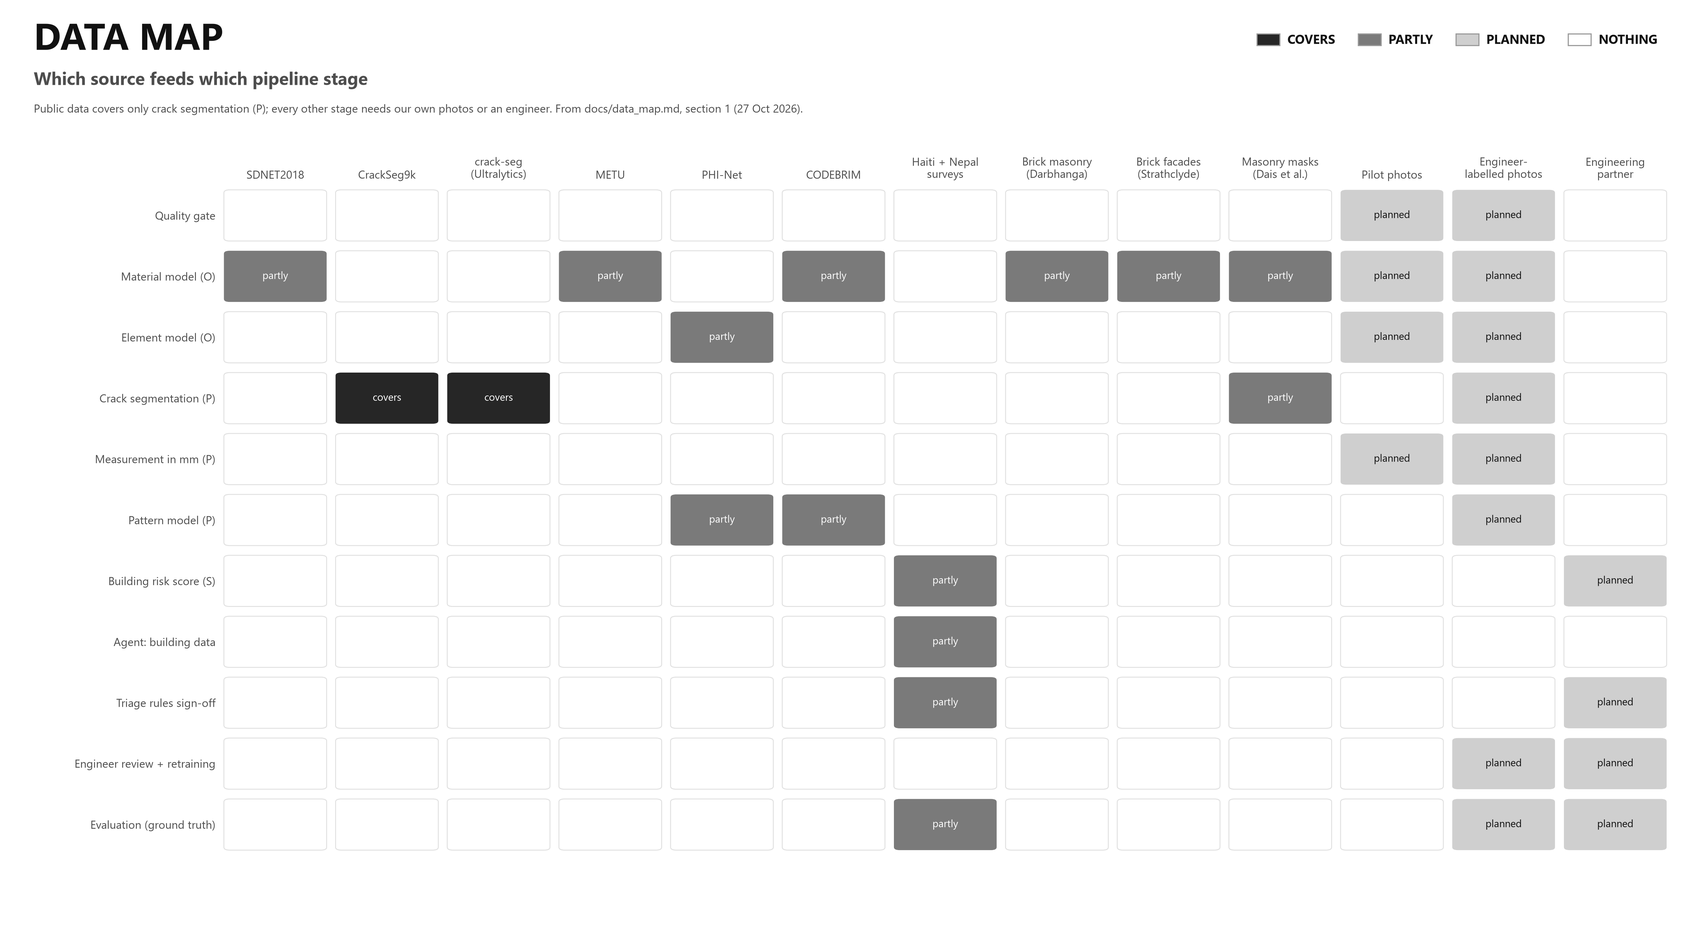
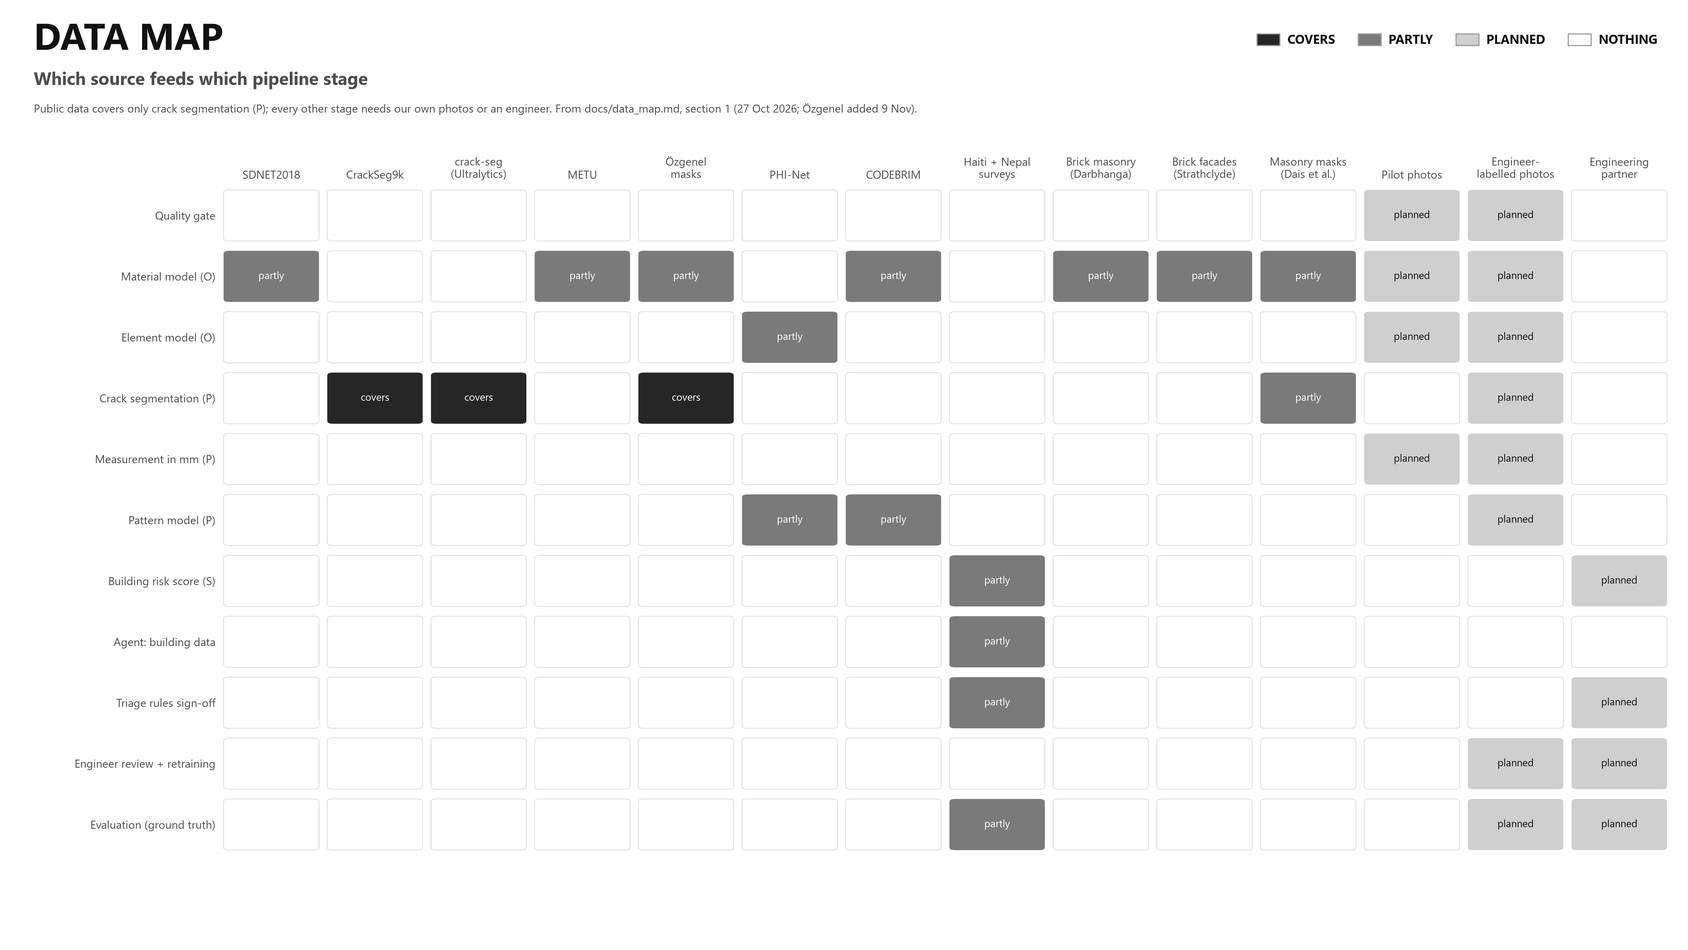
Crack model v4 in use (D48): building-concrete crack masks added, release model-v4
v4 adds 4,236 tiles of the Özgenel building-concrete photos [49] to v3's training (12,477 photos).
On building concrete it misses 17 cracks against 30 and raises 5 false alarms against 21 (pixel F1
0.85 against 0.78); on the old public close-ups it misses 18 against 12. Judged on all 1,494 test
photos, missed cracks first (35 against 42, false alarms 11 against 27). Weights on release
model-v4; README, models/README, experiment notes, specs, the app's model line, the weekly to-do and
figures 05, 06 and 10 updated.

diff --git a/src/app/second_look.py b/src/app/second_look.py
@@ -36,8 +36,9 @@ ELEMENT_KEYS = {"unknown": None, **{name: key for key, name in ELEMENTS.items()}
 WALL_GALLERY_COLUMNS = 6  # photos per row in an opened collection
 WALL_QUOTE = ("A repair that conceals a crack without addressing its root cause is not a solution, It is a "
               "temporary disguise for a potentially continuing defect.")
-MODEL_LINE = ("Model: U-Net crack segmentation, ResNet-34 encoder (crack model v3), trained on 9,441 public crack photos "
-              "and brick walls without cracks, plus written rules for the statement, plus bank-card measurement in mm")
+MODEL_LINE = ("Model: U-Net crack segmentation, ResNet-34 encoder (crack model v4), trained on 12,477 photos: public crack "
+              "close-ups, building concrete with crack masks and brick walls without cracks, plus written rules for the "
+              "statement, plus bank-card measurement in mm")  # update with models/unet_crack.pt (D48)
 
 STYLE = """<style>
 """ + background_css() + LOGO_CSS + """

diff --git a/src/viz/figures.py b/src/viz/figures.py
@@ -853,7 +853,7 @@ DATASETS = [
     ("METU", 40_000, "40,000  ·  CC BY 4.0", True, True, False, "crack / no crack; material: concrete"),
     ("PHI-Net", 36_413, "36,413  ·  CC BY-NC-SA 4.0", True, True, False, "element, pattern, scene"),
     ("CrackSeg9k", 9_255, "9,255  ·  CC0", True, True, False, "crack pixels (U-Net)"),
-    ("Özgenel building concrete", 458, "458 photos with crack masks  ·  CC BY 4.0", True, True, False,
+    ("Özgenel building concrete", 458, "458  ·  CC BY 4.0", True, True, False,
      "crack pixels (U-Net v4)"),
     ("crack-seg (Ultralytics)", 4_029, "4,029  ·  Public Domain", True, True, False, "crack pixels (U-Net)"),
     ("Haiti 2010 survey", 6_526, "6,526 photos  ·  licence not stated", False, True, False,

diff --git a/README.md b/README.md
@@ -37,7 +37,7 @@ Raw data is not committed; `data/` stays empty in the repository.
 The risk matrix and decision rules are implemented in `src/triage/` with tests, and so is the dispatch rule that decides when a field worker visits after a resident's report (`spec/features/dispatch.md`, D27). Thresholds are illustrative until calibrated with a structural engineer.
 The confusion tables (true and false positives and negatives, with missed Category 3 as the key error) are defined in `spec/features/evaluation.md` and coded in `src/triage/evaluate.py`.
 The quality gate (`src/quality/`) ran as a first test on real images from five public datasets. It found and fixed a resolution bug in the blur check, and showed that the blur check confuses smooth plaster and concrete with blur (decision D12) (`docs/experiments/`). Since 30 Oct a photo counts as blurred only when two blur measures agree, which stopped most sharp crack close-ups being sent to retake (D33; thresholds still to calibrate).
-**Crack model, in use (v3, 30 Oct):** a U-Net with a ResNet-34 encoder (pre-trained on ImageNet) marks the crack pixels in a photo. It was trained for 25 rounds on 8,241 photos (8,082 public crack close-ups from CrackSeg9k [25] and crack-seg [33], plus 159 brick walls without cracks from Darbhanga [30]), on a laptop GPU. A written rule then says "Crack found", "No crack found" or "Expert needed" (`src/segmentation/decide.py`). Details: `docs/experiments/2026-10-29_unet_first_training.md`, decisions D31 and D32.
+**Crack model, in use (v4, 9 Nov):** a U-Net with a ResNet-34 encoder (pre-trained on ImageNet) marks the crack pixels in a photo. It was trained for 25 rounds on 12,477 photos (8,082 public crack close-ups from CrackSeg9k [25] and crack-seg [33], 4,236 tiles of 353 photos of concrete on buildings with crack masks from the Özgenel dataset [49], the data of the reference thesis, and 159 brick walls without cracks from Darbhanga [30]), on a laptop GPU. A written rule then says "Crack found", "No crack found" or "Expert needed" (`src/segmentation/decide.py`). Details: `docs/experiments/2026-10-29_unet_first_training.md`, decisions D31, D32 and D48.
 **App, working (class demo):** a phone page where anyone sends a crack photo and gets the answer with the crack marked in red, and a live wall for the projector that collects the shared results (`src/app/`, `spec/features/class_demo.md`). See "Run the app" below.
 **Width in mm, in the app (Luis, 4 Nov, D41, D42, D46):** lay a bank card (85.60 x 53.98 mm) flat on the wall next to the crack. The app finds the card, checks the camera tilt (straight up to 10°, retake above 20°) and gives the width at the widest point and the median (± uncertainty), the length, the pixels across the crack and the crack's shape, with a white ring at the widest point (`src/measure/`, `spec/features/measurement.md`, `spec/features/app_measure.md`). Each photo on the live wall opens its own page with these numbers. Without a card the answer is as before. Tested on synthetic photos and a few field photos, not calibrated yet. The measurement alone: `streamlit run src/measure/app.py` or `python src/measure/measure_crack.py --demo`.
 **Not trained yet:** the material model (concrete or not), the element model (column, beam, slab, wall), the crack-pattern model and a "close-up of a surface?" check. Without the pattern and the element, the risk categories are not in the app.
@@ -45,7 +45,9 @@ A first draft of written rules suggests the crack pattern from the crack's direc
 Decisions are logged in `spec/decisions.md`. The plan to the final presentation (17 Dec) is in `spec/constitution/roadmap.md`; this week's tasks in `docs/weekly_todo.md`.
 
 ## Results
-**Crack model v3, on 1,203 public test photos it never saw in training:** 538 of 550 cracks found (12 missed), 7 false alarms on 653 photos without a crack (none on brick), pixel F1 0.63 (`docs/experiments/2026-10-29_unet_first_training.md`).
+**Crack model v4, on photos it never saw in training** (`docs/experiments/2026-10-29_unet_first_training.md`, D48):
+- Real building concrete (588 tiles, Özgenel [49]): 261 of 281 cracks found (17 missed, 3 sent to an expert), 5 false alarms on 307 tiles without a crack, pixel F1 0.85. v3 missed 30 and raised 21 false alarms there.
+- Public close-ups, mostly pavement (906 photos): 530 of 550 cracks found (18 missed, 2 sent to an expert), 6 false alarms on 356 photos without a crack (none on brick), pixel F1 0.64. v3 missed 12 there: this is v4's known weakness.
 **Known failure:** it only knows close-ups. On 30 photos of whole damaged buildings (Haiti 2010, local only) it still said "Crack found" 28 times: it reads window frames, wires and edges as cracks. Next: a "close-up of a surface?" check before the model.
 These are scores on public close-ups, not on our own photos, and not yet against the non-AI baseline. Success means beating the baseline (an engineer's visual check) on held-out, engineer-labelled photos, while missing almost no Category 3 cases (a target, planned for 3 Dec).
 We stop or redesign if the tool misses Category 3 cases that engineers would flag.
@@ -79,7 +81,7 @@ This repository was set up with help from Claude (Anthropic). Review everything 
 ## Run the app
 1. Python 3.10 or newer. With an NVIDIA GPU, install torch first with the CUDA build named in `requirements.txt`; without one the app runs on the CPU, slower (a few seconds per photo).
 2. `pip install -r requirements.txt`
-3. Download the model file [unet_crack.pt](https://github.com/iaac-maai/operable_futures_research_studio_2026_Team_Jerome_Luis/releases/download/model-v3/unet_crack.pt) (v3, about 98 MB, release `model-v3`) and put it in `models/`.
+3. Download the model file [unet_crack.pt](https://github.com/iaac-maai/operable_futures_research_studio_2026_Team_Jerome_Luis/releases/download/model-v4/unet_crack.pt) (v4, about 98 MB, release `model-v4`) and put it in `models/`.
 4. On this laptop only: `py -m streamlit run src/app/second_look.py`, then open `http://localhost:8501` (phone page) and `http://localhost:8501/?wall` (live wall).
 5. With a public link for phones (class demo): `py src/app/launch.py`. It opens the team's fixed link https://cranium-bladder-tapioca.ngrok-free.dev through ngrok (install it, then `ngrok config add-authtoken <your token>` once; never commit the token), so the QR is always the same (`docs/presentation/midterm/assets/qr_fixed.png`). Only one laptop can serve that link at a time. Without ngrok it falls back to a random Cloudflare link (`winget install --id Cloudflare.cloudflared`). It prints the phone link, the wall link for a teammate and the QR page (`http://localhost:8501/?qr`). The link only answers while the app runs; the free ngrok plan shows a one-time "You are about to visit" page first.
 6. To measure a crack: lay a bank card (or any card that size) flat on the wall next to the crack, all four corners visible, number covered; hold the phone parallel to the wall. The phone page then shows the width, length and camera tilt; each photo on the live wall opens its own page with the numbers. After a code update, stop the launcher (Ctrl+C) and start it again: a running app keeps the old code in memory.

diff --git a/spec/features/class_demo.md b/spec/features/class_demo.md
@@ -24,7 +24,7 @@ Title "Second Look" as the word mark (below), then the team's quote in bold capi
 ## Live wall
 - Word mark (4 Nov, from the deck cover): in both titles the two O's of "LOOK" are scan frames. On load the second O slides out of the first and a red crack draws through it; it plays once (CSS only, `src/app/logo.py`). Screen readers get "Second Look".
 - Top, very large: "SECOND LOOK v1.0" (the version in lower case; the word mark), left-aligned with the quote under it (the two form one block, centred on the screen). Right of the title, under "v1.0", "READING CRACKS..." types itself letter by letter, holds, disappears and starts again (4 s loop, CSS only).
-- Screen bottom: the model in use (U-Net, ResNet-34 encoder, crack model v3; `MODEL_LINE` in `second_look.py`, to update with the model) stands still as one line of grey capitals (white at the main crack's opacity, so the same grey as the background crack), from the left edge of the screen to the right edge (letter size from the letter count, words justified; `model_line` in `background.py`; D35). A band in the page colour sits behind it, fading out at its top, so the crack does not run through the letters. Only the red flash on the crack and the "Reading cracks..." typing move.
+- Screen bottom: the model in use (U-Net, ResNet-34 encoder, crack model v4 since 9 Nov, trained on 12,477 photos, D48; `MODEL_LINE` in `second_look.py`, to update with the model) stands still as one line of grey capitals (white at the main crack's opacity, so the same grey as the background crack), from the left edge of the screen to the right edge (letter size from the letter count, words justified; `model_line` in `background.py`; D35). A band in the page colour sits behind it, fading out at its top, so the crack does not run through the letters. Only the red flash on the crack and the "Reading cracks..." typing move.
 - Middle: four large buttons, one per statement (Crack found, No crack found, Expert needed, Retake), each with its count, in a row centred on the screen. The buttons have no box: white text, red when opened or under the mouse. One continuous cracked line with a few hairlines, grey like the background crack, runs under the whole row, with one branch rising from it to each button (off the button's centre, each by a different amount, so not symmetrical); it is drawn in four seamless pieces, and the piece under a hovered or opened button turns red (CSS `:has`, current Chrome, Edge or Firefox) (`crack_underline_svg` in `background.py`; 30 Oct, replaced a cracked outline, then a line per button). The line "Click a result to see its photos." was removed (30 Oct). **No photo is shown by default.** Clicking a button opens that statement's collection below (every shared result of it still in memory, 6 per row, newest first; since D46 each photo carries its widest width and opens its own page with the numbers large); another button switches, a second click closes. The wall keeps the newest 40 shared results overall. Expert needed stays: it is one of the outputs (rule 2). Only results whose sender ticked the box.
 - Right under the title, starting at the same left edge, bold capitals on one line: "A repair that conceals a crack without addressing its root cause is not a solution, It is a temporary disguise for a potentially continuing defect." (team's wording, 30 Oct). The phone page shows it under its title too, wrapped over several lines (one line would be unreadable on a phone).
 - No QR on the wall (1 Nov). The QR has its own page, `http://localhost:8501/?qr`: the code alone, centred, 80 % of the screen height, shown on the projector when students should scan. (Before: a fixed bottom-right corner.)
@@ -38,7 +38,7 @@ Title "Second Look" as the word mark (below), then the team's quote in bold capi
 ## Limits
 The model is trained on public close-ups of cracks (`docs/experiments/2026-10-29_unet_first_training.md`).
 Checked on 30 Oct with 30 full-resolution photos of damaged buildings (Haiti 2010 engineer photos, local only): all 30 came back "Crack found" at about 90 % confidence, in 0.25 s each (1.4 s at most). On close-ups it marked the real cracks; on whole scenes it also marked window frames, wires, roof edges and people. The model has never seen anything but close-ups of surfaces.
-Model v3 (brick no-crack photos added, D32) still read 28 of the 30 as "Crack found". So the phone page asks for close-ups (20 to 40 cm, wall fills the photo). A real fix needs a "close-up of a surface?" check before the model, or training with photos of non-crack lines (brick joints, edges, frames). Until then, wrong answers are part of the demo: an engineer confirms.
+Model v3 (brick no-crack photos added, D32) still read 28 of the 30 as "Crack found". Model v4 (building-concrete crack masks added, D48) has not been run on these 30 photos yet; it was trained on close-ups too, so the same limit is expected. So the phone page asks for close-ups (20 to 40 cm, wall fills the photo). A real fix needs a "close-up of a surface?" check before the model, or training with photos of non-crack lines (brick joints, edges, frames). Until then, wrong answers are part of the demo: an engineer confirms.
 
 ## Tests (`tests/test_app_core.py`)
 Consent is required, only shared results reach the wall, the wall keeps the newest 24, counts, wall key check, link read from the tunnel's output, QR code made.

diff --git a/docs/experiments/2026-10-29_unet_first_training.md b/docs/experiments/2026-10-29_unet_first_training.md
@@ -57,6 +57,23 @@ Decision: v3 passes the rule on the test photos and is now `models/unet_crack.pt
 
 Whole scenes (30 Haiti 2010 engineer photos, local only): v1 30 "Crack found", v2 29 (1 Expert needed), v3 28 (2 No crack found). Close-up no-crack photos do not teach the model what a window frame or a wire is; whole scenes need a "close-up of a surface?" check before the model (next step).
 
+## 9 Nov: model v4, building concrete with crack masks (D48)
+v4 adds the Özgenel Concrete Crack Segmentation Dataset [49]: 458 photos of concrete on METU campus buildings with crack masks, cut into 12 tiles each (`src/segmentation/ozgenel.py`; train 4,236, val 672, test 588 tiles, split by photo). Trained as v3 (`--exclude metu_ sdnet_ --repeat darb_=5`), 25 rounds; best val F1 0.776 (round 21; v3's val set had no Özgenel tiles, so the two are not comparable).
+**A data bug, found by looking at the errors.** In a first run the "false alarms" on Özgenel tiles were real, clearly visible cracks with an empty mask: 194 photos carry an EXIF rotation their masks do not, and the preparation had stretched the masks instead of turning the photos. Fixed (photos turned by their tag, a size mismatch now stops the run, a test reproduces the case); on all 458 pairs the masked pixels are now darker than the rest (191 were not). That run was discarded and v4 retrained.
+**Test** (photos never seen; METU tiles left out because they are cut from the Özgenel photos):
+
+| Test set | Model | Cracks found | Missed | Expert needed | False alarms | Pixel F1 |
+|---|---|---|---|---|---|---|
+| Building concrete, Özgenel (281 crack / 307 clean tiles) | v3 | 250 | 30 | 1 | 21 | 0.78 |
+| | **v4** | 261 | **17** | 3 | **5** | **0.85** |
+| Public close-ups without METU (550 crack / 356 clean photos) | v3 | 538 | **12** | 0 | 6 | 0.63 |
+| | **v4** | 530 | 18 | 4 | 6 | 0.64 |
+| All 1,494 | v3 | 788 | 42 | 1 | 27 | |
+| | **v4** | 791 | **35** | 7 | **11** | |
+
+v4 is better on building concrete, the case closest to the concept, and slightly worse on the old public close-ups (16 of its 18 misses are CrackSeg9k photos, mostly pavement). Judged on all test photos, missed cracks first, it replaces v3 (D48). Its 6 extra misses there are its known weakness; the pilot photos decide next.
+Outputs: `data/results/segmentation/v4_compare/` (v3 and v4 on both sets, one overlay per photo), `train_log_v4.csv`.
+
 ## Outputs (local, not committed)
 - `models/unet_crack.pt`: the model in use (v3 since 30 Oct); `unet_crack_v1.pt`, `unet_crack_v2.pt`; training logs `train_log.csv` (v1), `train_log_v2.csv`, `train_log_v3.csv`.
 - `data/results/segmentation/train_log.csv`: loss and val F1 per epoch.

diff --git a/models/README.md b/models/README.md
@@ -1,15 +1,15 @@
 # Models
 
[2 lines of base64/hex data omitted]
 
 Weights are attached to GitHub Releases, never committed to the repository (D39). Note: one training set (crack-seg [33]) has an unclear licence (Public Domain on its page, AGPL-3.0 in its file header); the release notes say so.
 
 ## In use
 | File | Model | Trained on | Test result | Details |
 |---|---|---|---|---|
-| `unet_crack.pt` (v3, about 98 MB) | U-Net, ResNet-34 encoder pre-trained on ImageNet; marks crack pixels | 8,241 photos: 8,082 public crack close-ups (CrackSeg9k [25], crack-seg [33]) and 159 brick walls without cracks (Darbhanga [30]); 25 rounds on a laptop GPU | On 1,203 unseen public photos: 538 of 550 cracks found, 7 false alarms on 653 photos without a crack, pixel F1 0.63 | `docs/experiments/2026-10-29_unet_first_training.md`, D31, D32 |
+| `unet_crack.pt` (v4, about 98 MB) | U-Net, ResNet-34 encoder pre-trained on ImageNet; marks crack pixels | 12,477 photos: 8,082 public crack close-ups (CrackSeg9k [25], crack-seg [33]), 4,236 tiles of 353 building-concrete photos with crack masks (Özgenel [49]) and 159 brick walls without cracks (Darbhanga [30]); 25 rounds on a laptop GPU | Building concrete (588 unseen tiles): 17 cracks missed, 5 false alarms, pixel F1 0.85 (v3: 30, 21, 0.78). Public close-ups (906 unseen photos): 18 missed, 6 false alarms, pixel F1 0.64 (v3: 12, 6, 0.63) | `docs/experiments/2026-10-29_unet_first_training.md`, D31, D32, D48 |
 
-Kept for comparison: `unet_crack_v1.pt`, `unet_crack_v2.pt` (`unet_crack_v3.pt` is the same as `unet_crack.pt`).
+Kept for comparison: `unet_crack_v1.pt`, `unet_crack_v2.pt`, `unet_crack_v3.pt` (release model-v3); `unet_crack_v4.pt` is the same as `unet_crack.pt`.
 Known limit: it only knows close-ups; whole-building photos are read as cracks (28 of 30).
 The app loads `unet_crack.pt` (`src/app/second_look.py`); it runs on a GPU or, slower, on the CPU.
 

diff --git a/spec/decisions.md b/spec/decisions.md
@@ -176,3 +176,6 @@ Jerome took Luis's `measurement` branch (D41 to D45) into the team's app instead
 ## D47 (2026-11-04): the early logo ideas are removed
 The four logo ideas in `branding/logos/` (two lenses, stairstep, coin lens, crack path) and their generator are deleted: the team's logo is the word mark from the deck cover, "SECOND LOOK" with the two O's as scan frames and a red crack (D38), in `src/app/logo.py`. They stay in the git history.
 
+## D48 (2026-11-09): crack model v4 replaces v3, judged on all test photos
+v4 adds 4,236 tiles from 353 photos of the Özgenel Concrete Crack Segmentation Dataset [49] (concrete of buildings with crack masks, the data of the reference thesis [46]) to v3's training (`spec/features/segmentation.md`). Tested on photos it never saw: on real building concrete (588 Özgenel tiles) it misses 17 cracks against 30 for v3 and raises 5 false alarms against 21 (pixel F1 0.85 against 0.78); on the old public test photos without METU (906, mostly pavement and generic close-ups) it misses 18 against 12, with 6 false alarms each (pixel F1 0.64 against 0.63). Over all 1,494 test photos: 35 missed against 42, 11 false alarms against 27. The rule of D32 (no more misses and no more false alarms on the same test photos) compared only the old test photos, where v4 fails by 6 misses. The team chose to judge on all test photos, missed cracks first, because building concrete is closer to the concept (D14) than pavement. v4's 6 extra misses on the old close-ups are recorded as its known weakness. v3 is kept as `models/unet_crack_v3.pt` and release model-v3. A first v4 run on masks misaligned by EXIF rotations was discarded.
+

diff --git a/spec/features/segmentation.md b/spec/features/segmentation.md
@@ -1,6 +1,6 @@
 # Feature: crack segmentation (`src/segmentation/`)
 
-Status: day 1 of the first model (29 Oct): data preparation done (9,441 pairs: crack-seg 3,717 / 199 / 112, CrackSeg9k 4,365 / 439 / 609 train / val / test). Day 2 (29 Oct): trained and tested once: on 721 unseen photos, 95.8 % of cracks found, 3.1 % missed, 2.9 % false alarms (`docs/experiments/2026-10-29_unet_first_training.md`). 30 Oct: no-crack photos added; model v3 in use (test: 538 of 550 cracks found, 12 missed, 7 false alarms out of 653 no-crack photos; D32). Box [6] of the pipeline story (figure 01d), scope D30.
+Status: day 1 of the first model (29 Oct): data preparation done (9,441 pairs: crack-seg 3,717 / 199 / 112, CrackSeg9k 4,365 / 439 / 609 train / val / test). Day 2 (29 Oct): trained and tested once: on 721 unseen photos, 95.8 % of cracks found, 3.1 % missed, 2.9 % false alarms (`docs/experiments/2026-10-29_unet_first_training.md`). 30 Oct: no-crack photos added; model v3 (test: 538 of 550 cracks found, 12 missed, 7 false alarms out of 653 no-crack photos; D32). Box [6] of the pipeline story (figure 01d), scope D30. 9 Nov: model v4 in use, Özgenel building-concrete masks added (on building concrete 17 cracks missed and 5 false alarms against 30 and 21 for v3; on the old public close-ups 18 missed against 12; D48).
 
 ## Purpose
 Mark which pixels of a usable photo are crack. The mask feeds the width measurement (mm, from the scale card) and then the written risk matrix. The model never gives a level itself.

diff --git a/docs/weekly_todo.md b/docs/weekly_todo.md
@@ -6,6 +6,21 @@ Owner: J = Jerome, L = Luis, C = coding agent (Claude). Fill in the blanks.
 
 ---
 
+## Week 3: 9 to 15 Nov (studio Thu 12 Nov: full SDD constitution, first feature with tests, first MCP attempt)
+
+### Done
+- [x] Crack model v4 in use: the reference thesis's building-concrete crack masks (Özgenel [49]) added; better on building concrete, slightly worse on pavement close-ups (C, 9 Nov, D48)
+- [x] Old logo ideas removed (D47) (C, 4 Nov)
+
+### Before Thursday 12 Nov
+- [ ] Width check against a known answer: photos of known widths with a bank card (J + L take the photos, C compares)
+- [ ] First MCP connection: OpenStreetMap building data into the building case (C)
+- [ ] Constitution refresh: roadmap and tech stack brought up to date (C)
+- [ ] Element model: run Luis's experiment (D44) on PHI-Net task 6 here; rule for a hidden or unknown element, to check with the engineer (C)
+- [ ] Deck for Thursday's studio (J + L)
+
+---
+
 ## Week 2: 2 to 8 Nov (midterm: submit Wed 5 Nov on Google Drive, present Fri 6 Nov)
 
 ### Done
